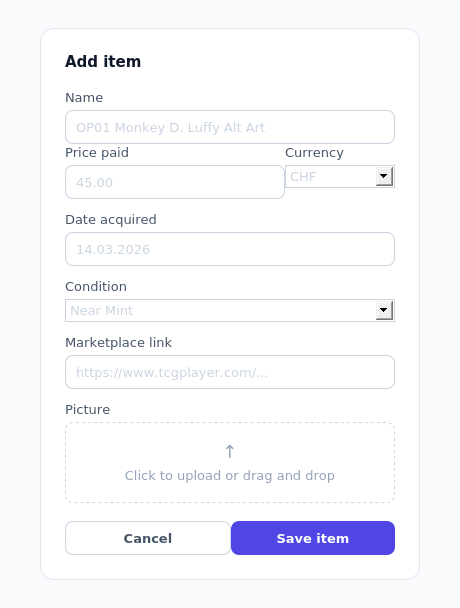
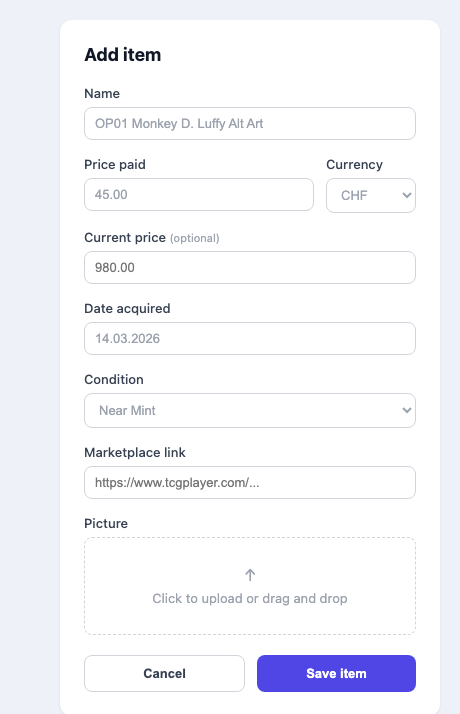
docs: ADR-17: decide on priceNow for the user if he hants to set a current market value for the Item

diff --git a/adr/adr.md b/adr/adr.md
@@ -24,6 +24,9 @@ Entries are numbered chronologically, in the order decisions were made, and are 
 **Backend setup & operations**
 [ADR-013](#adr-013-backend-project-setup--maven-java-21-lts-package-by-layer) (Maven/Java 21/package structure) · [ADR-014](#adr-014-secrets-management-via-gitignored-local-config-environment-variables-in-deployment) (secrets management)
 
+**Pricing**
+[ADR-006](#adr-006-store-currency-as-a-field-per-item-rather-than-assuming-a-single-fixed-currency) (currency field) · [ADR-017](#adr-017-current-price-is-a-manual-optional-field-for-now--no-automated-price-lookup-yet) (manual current price)
+
 ---
 
 ## ADR-001: Use PostgreSQL via Docker instead of H2
@@ -284,3 +287,21 @@ Entries are numbered chronologically, in the order decisions were made, and are 
 **Consequences:** A small, explainable piece of Spring Security config (one bean, one property) instead of none at all; origins are environment-driven, consistent with ADR-014's approach to environment-specific settings.
 
 **Related:** ADR-007 (JWT auth, same filter chain), ADR-009/ADR-010 (separate frontend/backend services — why this is needed at all), ADR-014 (env-driven config pattern)
+
+---
+
+## ADR-017: Current price is a manual, optional field for now — no automated price-lookup yet
+
+**Status:** Accepted
+
+**Context:** The dashboard needs a "total price now" figure alongside "total price paid." Automatically fetching current value from marketplaces (TCGPlayer/Cardmarket) is a real feature planned for later, but per-marketplace scraping/API integration is real scope, not needed to unblock the MVP — `marketplaceLink` already lets a user look the price up manually.
+
+**Decision:** Add `priceNow` as an optional, user-editable field on `Item` (same shape as `pricePaid`: decimal, same currency), filled in manually for now. `Collection.totalPriceNow` sums whatever items have a value set, and is `null` if none do. `marketplaceLink` stays the manual path to find the number; nothing fetches it automatically yet.
+
+**Alternatives considered:**
+- **Leave `totalPriceNow` unimplemented until automated lookup exists:** Avoids a manually-filled field today, but leaves the dashboard's second metric permanently blank and defers work (field + aggregation) that's needed either way.
+- **Build the automated marketplace lookup now:** Solves it properly, but per-marketplace integration is scope creep for the MVP.
+
+**Consequences:** Dashboard's "total price now" is real and functional immediately, user-maintained. The field and aggregation are already in place for when automated lookup arrives later — that becomes a new write path filling the same field, not a schema change.
+
+**Related:** ADR-006 (currency field), ADR-004 (marketplaceLink stays the manual fallback)

diff --git a/database/data-model-mvp.md b/database/data-model-mvp.md
@@ -22,6 +22,7 @@ erDiagram
     uuid collectionId FK
     string name
     decimal pricePaid
+    decimal priceNow "nullable"
     string currency
     date dateAcquired
     string condition
@@ -59,7 +60,8 @@ One-to-many with User: a user can own multiple collections, even though the MVP 
 - `collectionId` — uuid, foreign key to Collection
 - `name`
 - `pricePaid` — decimal
-- `currency` — ISO code (e.g. CHF, USD, EUR)
+- `priceNow` — decimal, nullable; current value, entered manually by the user for now (see ADR-017)
+- `currency` — ISO code (e.g. CHF, USD, EUR) — applies to both `pricePaid` and `priceNow`
 - `dateAcquired` — date the item was obtained (user-entered)
 - `condition` — fixed set of values (see below)
 - `marketplaceLink` — link to TCGPlayer/Cardmarket for manual current-value lookup
@@ -91,6 +93,3 @@ Standard grading scale, matching common marketplace listings:
 ### Currency
 Stored as ISO currency codes (e.g. CHF, USD, EUR) rather than symbols, for cleaner future formatting/conversion.
  
-## Open decisions
- 
-- **Total price now** (collection overview) — aggregation logic still to be defined; each item has a marketplace link for manual lookup rather than a stored current-value figure. See GitHub issue tracker for details.

diff --git a/backend/api-design.md b/backend/api-design.md
@@ -26,10 +26,10 @@
   "id": "9f2b...",
   "name": "My One Piece Collection",
   "totalPricePaid": 1240.50,
-  "totalPriceNow": null
+  "totalPriceNow": 980.00
 }
 ```
-`totalPriceNow` aggregation logic is an open decision — see the data model doc.
+`totalPriceNow` sums each item's manually-entered `priceNow` (see ADR-017); `null` if no item in the collection has one set.
 
 ## Items
 
@@ -47,6 +47,7 @@
 {
   "name": "OP01 Monkey D. Luffy Alt Art",
   "pricePaid": 45.00,
+  "priceNow": null,
   "currency": "CHF",
   "dateAcquired": "2026-03-14",
   "condition": "NEAR_MINT",
@@ -59,6 +60,7 @@
   "collectionId": "9f2b...",
   "name": "OP01 Monkey D. Luffy Alt Art",
   "pricePaid": 45.00,
+  "priceNow": null,
   "currency": "CHF",
   "dateAcquired": "2026-03-14",
   "condition": "NEAR_MINT",
@@ -113,6 +115,3 @@ Standard HTTP status codes:
 | 404 | Resource not found |
 | 500 | Server error |
 
-## Open decisions
-
-- **Total price now** aggregation — no stored current-value field exists yet; each item carries a marketplace link for manual lookup instead. Logic to be defined in a GitHub issue.

diff --git a/frontend/ui-design.md b/frontend/ui-design.md
@@ -15,14 +15,14 @@ Rough screen layouts agreed on during design discussion, before implementation. 
 ![Dashboard mockup](images/dashboard.png)
 
 - Header: collection name + "Add item" button
-- Two metric cards: total price paid, total price now (shows "—" until that logic is defined — see open decisions in `data-model.md`)
+- Two metric cards: total price paid, total price now (sum of each item's manually-entered current price — see ADR-017; shows "—" if no item has one set)
 - Item grid: photo-first cards (name + price paid), click through to item detail
 
 ## 3. Add item form
 
 ![Add item form mockup](images/add-item-form.png)
 
-- Fields match the finalized data model: name, price paid, currency, date acquired, condition, marketplace link, picture
+- Fields match the finalized data model: name, price paid, current price (optional), currency, date acquired, condition, marketplace link, picture
 - Condition is a dropdown of the fixed grading scale (see `data-model.md`)
 - Image upload happens as a separate step from item creation (see ADR-008)
 
